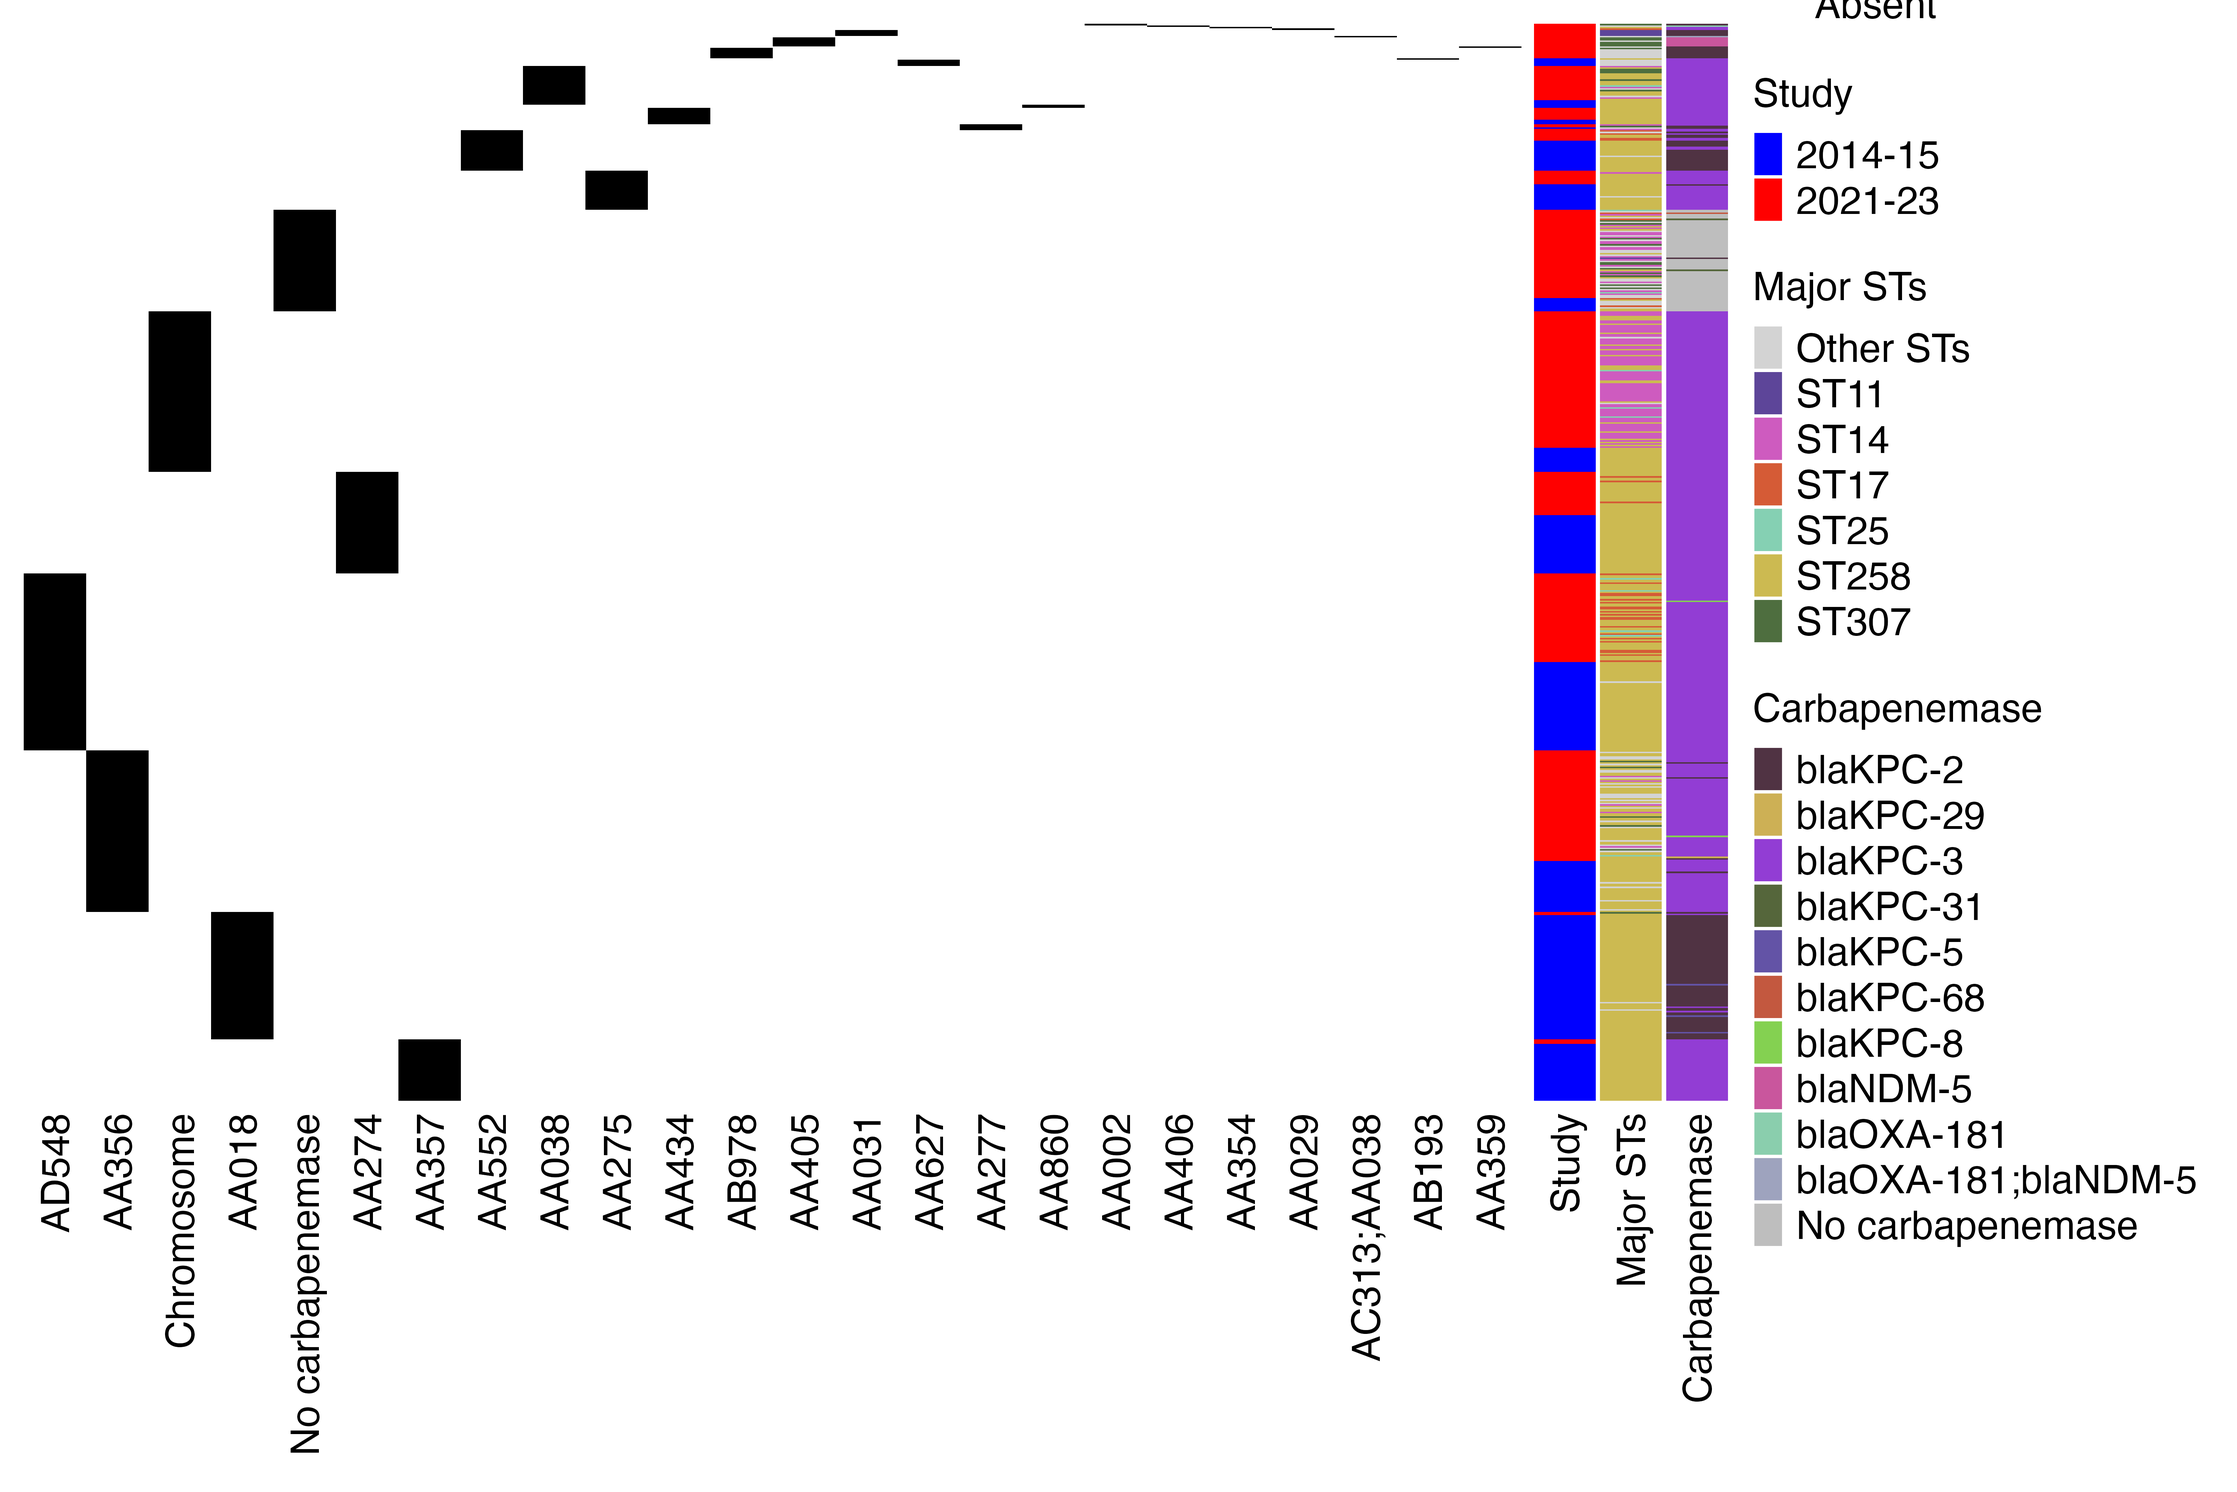
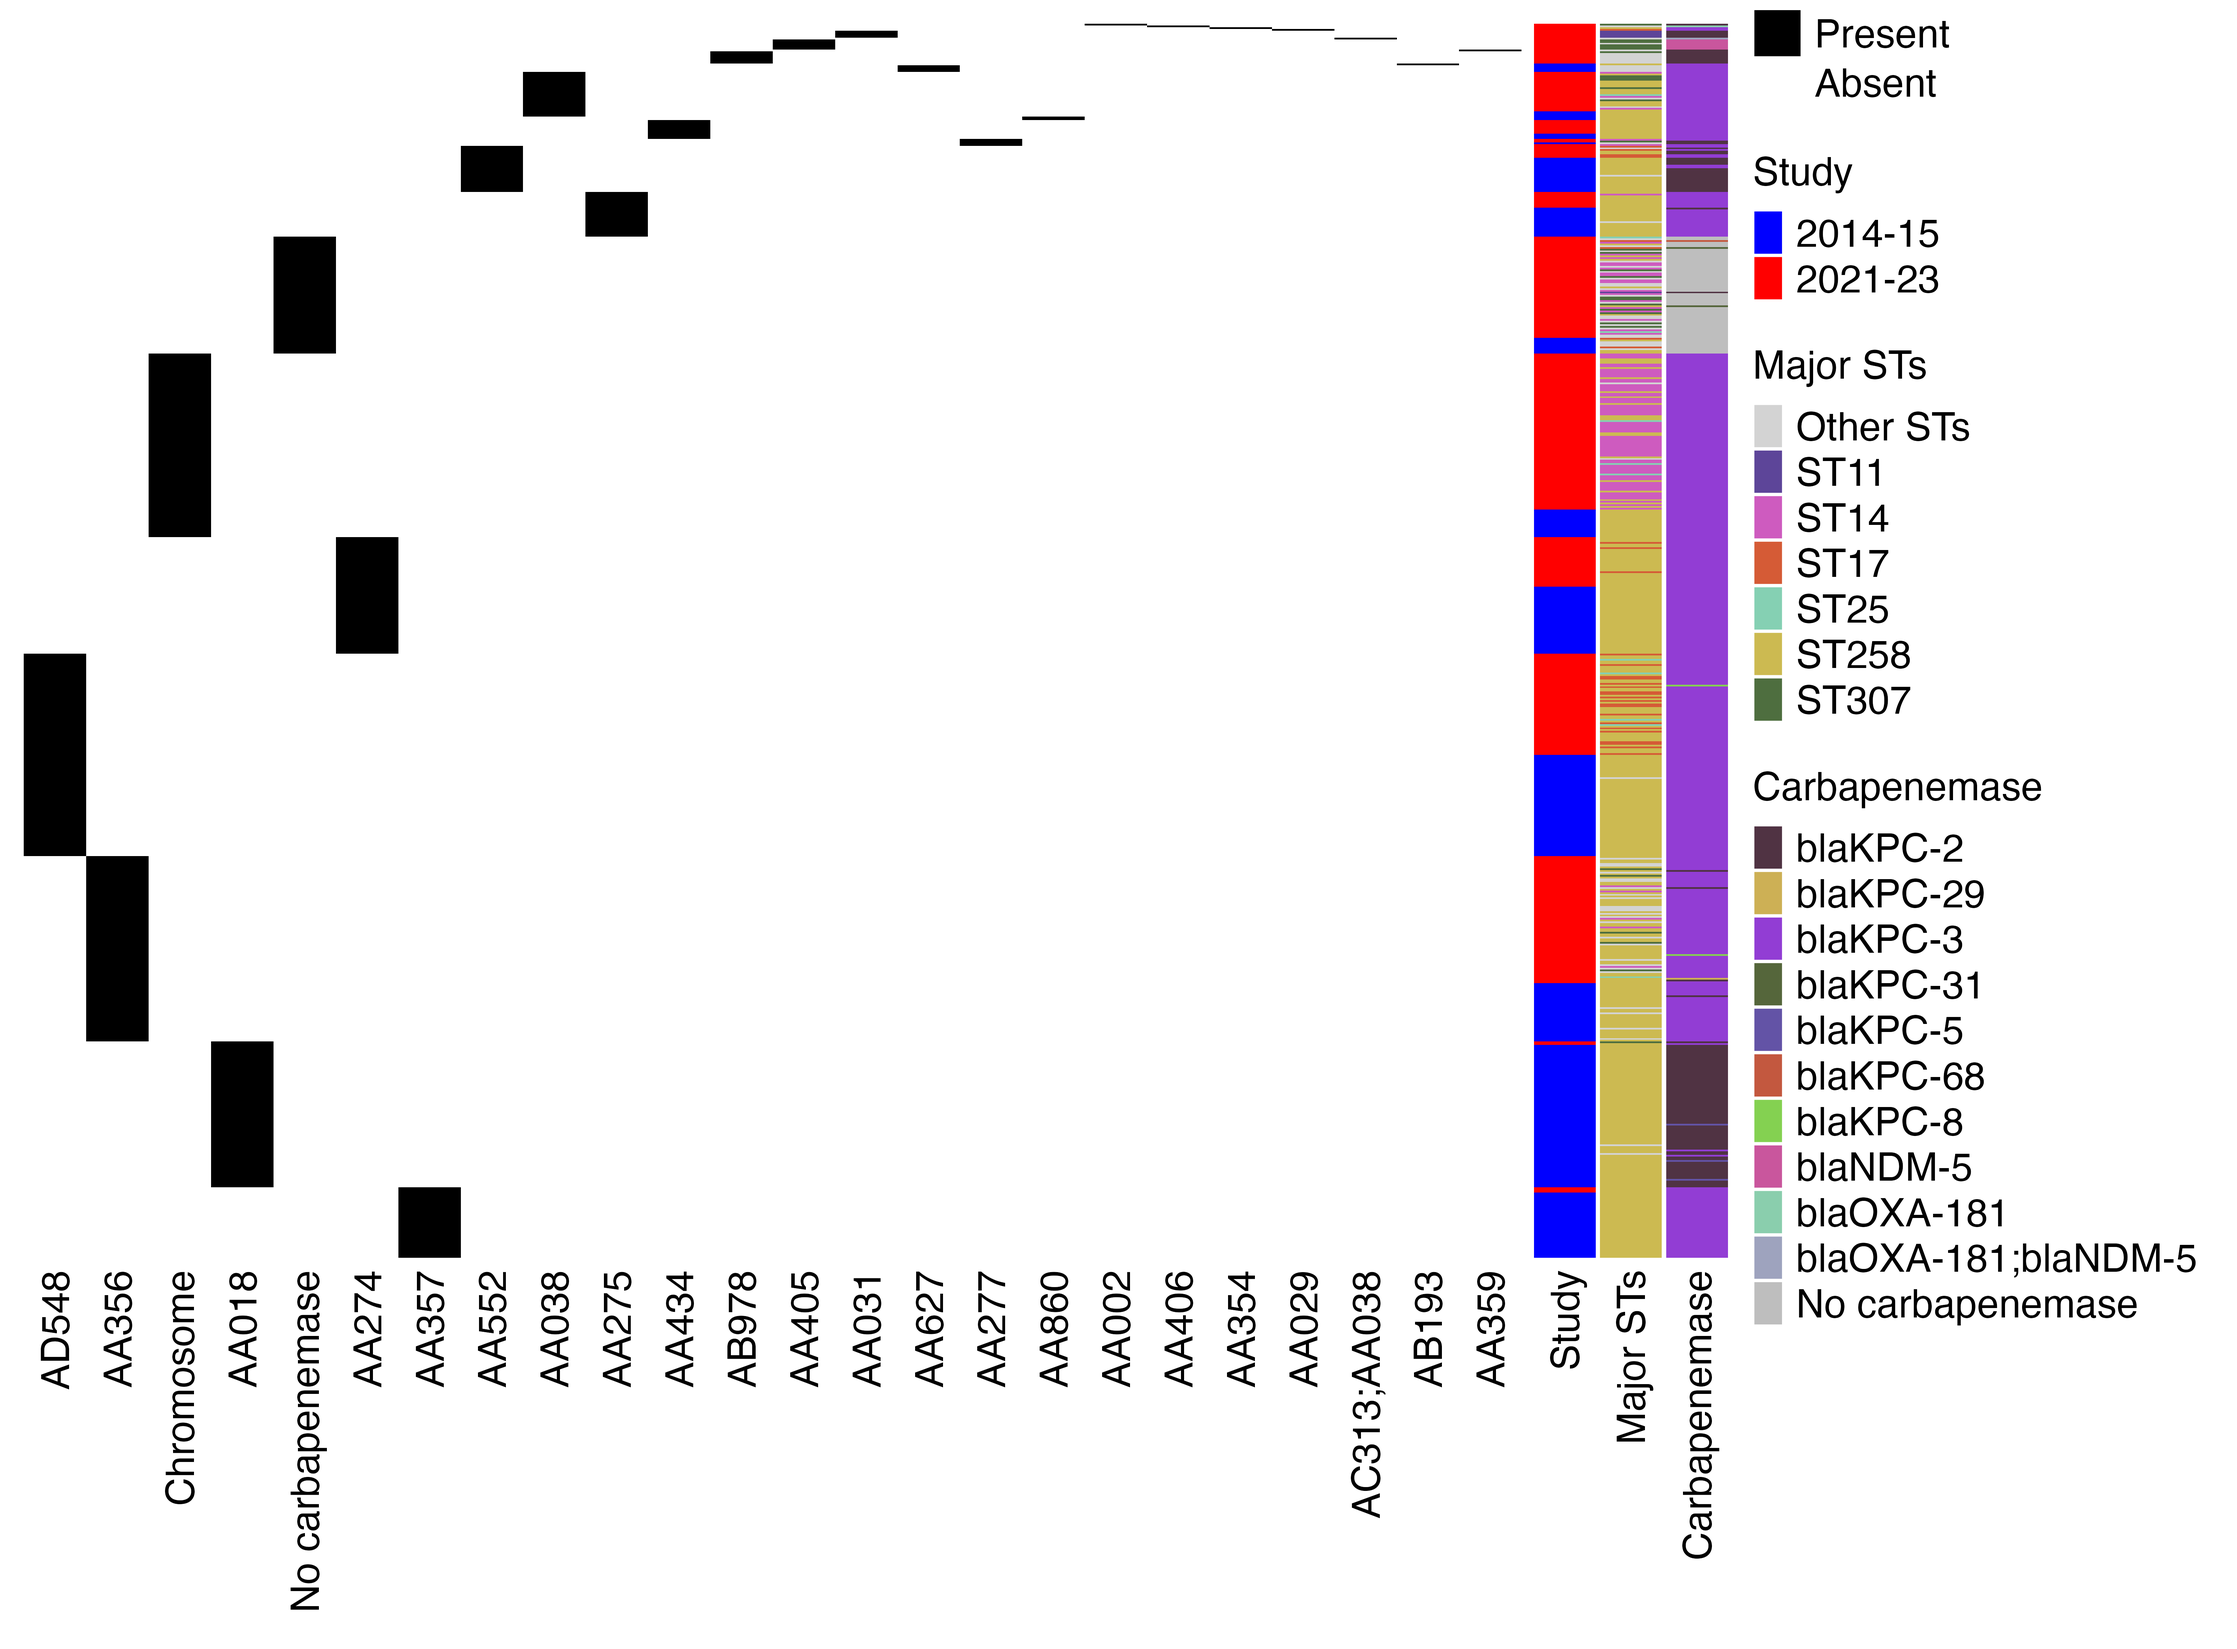
update height of heatmaps

diff --git a/scripts/figures/s_figure_3_carbapenem_genotypes.html b/scripts/figures/s_figure_3_carbapenem_genotypes.html
@@ -11,7 +11,7 @@
 
 <meta name="author" content="Kyle Gontjes" />
 
-<meta name="date" content="2025-10-20" />
+<meta name="date" content="2025-10-21" />
 
 <title>Supplemental Figure 3: Carbapenem resistance-associated genotypes</title>
 
@@ -353,7 +353,7 @@ display: none;
 <h1 class="title toc-ignore">Supplemental Figure 3: Carbapenem
 resistance-associated genotypes</h1>
 <h4 class="author">Kyle Gontjes</h4>
-<h4 class="date">2025-10-20</h4>
+<h4 class="date">2025-10-21</h4>
 
 </div>
 
@@ -422,7 +422,7 @@ resistance-associated genotypes</h1>
                                                                                                     version 
 &quot;Darwin Kernel Version 24.6.0: Mon Aug 11 21:16:05 PDT 2025; root:xnu-11417.140.69.701.11~1/RELEASE_X86_64&quot; 
                                                                                                    nodename 
-                                                                                           &quot;msla0572.local&quot; 
+                                                                              &quot;msla0572.wifi.med.umich.edu&quot; 
                                                                                                     machine 
                                                                                                    &quot;x86_64&quot; 
                                                                                                       login 

diff --git a/scripts/figures/s_figure_4_carbapenemase_plasmid.html b/scripts/figures/s_figure_4_carbapenemase_plasmid.html
@@ -11,7 +11,7 @@
 
 <meta name="author" content="Kyle Gontjes" />
 
-<meta name="date" content="2025-10-20" />
+<meta name="date" content="2025-10-21" />
 
 <title>s_figure_4_carbapenemase_plasmid</title>
 
@@ -352,7 +352,7 @@ display: none;
 
 <h1 class="title toc-ignore">s_figure_4_carbapenemase_plasmid</h1>
 <h4 class="author">Kyle Gontjes</h4>
-<h4 class="date">2025-10-20</h4>
+<h4 class="date">2025-10-21</h4>
 
 </div>
 
@@ -421,7 +421,7 @@ display: none;
                                                                                                     version 
 &quot;Darwin Kernel Version 24.6.0: Mon Aug 11 21:16:05 PDT 2025; root:xnu-11417.140.69.701.11~1/RELEASE_X86_64&quot; 
                                                                                                    nodename 
-                                                                                           &quot;msla0572.local&quot; 
+                                                                              &quot;msla0572.wifi.med.umich.edu&quot; 
                                                                                                     machine 
                                                                                                    &quot;x86_64&quot; 
                                                                                                       login 
